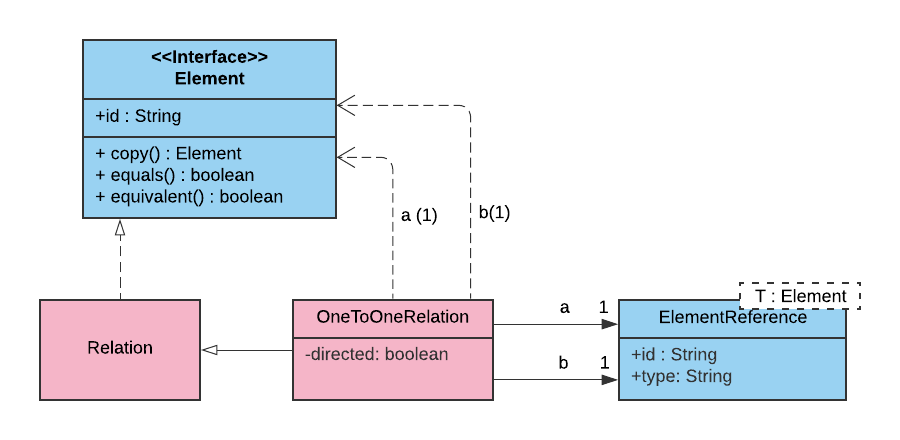
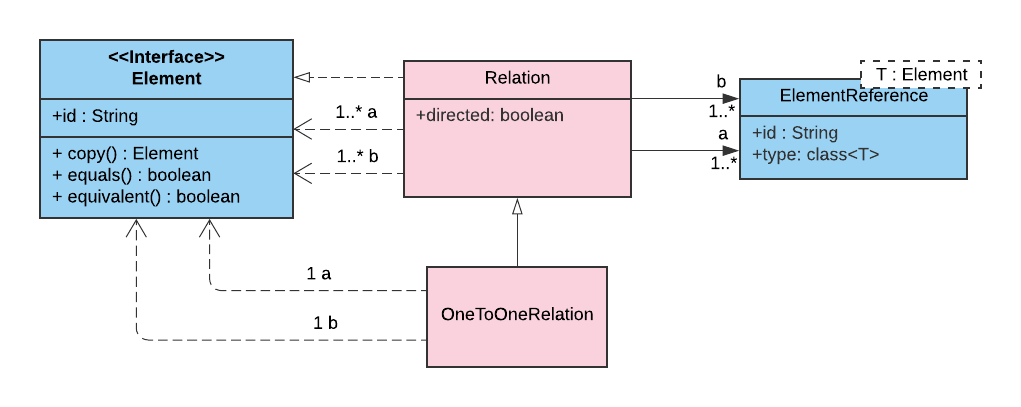
dump

diff --git a/Thesis/chapters/fundamentals.tex b/Thesis/chapters/fundamentals.tex
@@ -1,15 +1,15 @@
 \chapter{Related Work and Fundamentals}
 
-\comment{Intro}
+this chapter lays out a knowledge foundation, required in later sections \comment{(*barf* horribly written)}. First an extensive introduction into the CouchEdit architecture is given, that will be needed later on to understand design decisions. Following that, the syntax of the petri net and statechart modeling languages are introduced, which are used in Chapter \ref{chap:design} to explain concepts of the proposed metamodel. Finally, related work is being explored \comment{(to short)}. 
 
 \section{CouchEdit}
 As noted in section \ref{sec:problem_statement}, the CouchEdit framework is based on the Ideas of Van Tendeloo, et al. \cite{van_tendeloo_concrete_2017}. In their paper, the authors criticize that classic approaches to modeling frontends usually create one monolithic construct, that handles both the graphical model display as well as the corresponding abstract syntax. This creates tight coupling between the two, which causes low flexibility of the UI and high effort, if new features are to be implemented. 
 
 They propose to solve this, by defining two metamodels, one describing the concrete syntax and one the abstract syntax. The concrete syntax metamodel specifies graphic primitives that are needed to compose a given modeling syntax. instances of this metamodel are managed by the frontend and a user can manipulate this concrete syntax directly by adding, deleting or modifying Elements in the UI (if the frontend allows changes). On The other side stands the abstract syntax metamodel, it describes the conceptual representation of a modeling syntax. Instances of this metamodel are managed by the backend. To then connect these two metamodels, a further metamodel can be defined, that specifies transformations to translate concrete model into abstract model and backwards. 
 
-Following this architecture, CouchEdit separates frontend from the abstract syntax model. The frontend at its core is a simple vector drawing application, that implements further functionality for diagrams. The backend is then analyzing these vector graphics and translating it into a corresponding abstract syntax. For this, the backend utilizes a set of independent components, that each are responsible for detecting different aspects of the diagram. Each Component contains its own state, when a component detects changes and updates its state, it also publishes these changes for so that other components interested in these changes, can use them.  
+Following this architecture, CouchEdit separates frontend from the abstract syntax model. The frontend at its core is a simple vector drawing application, that implements further functionality for diagrams. The backend is then analyzing these vector graphics and translating it into a corresponding abstract syntax. For this, the backend utilizes a set of independent components, that each are responsible for detecting different aspects of the diagram. Each Component contains its own state, when a component detects changes and updates its state, it also publishes these changes so that other components interested in these changes, can use them.  
 
-This architecture, has the advantage of being very detangled. this allows for components to be improved, in isolation from the rest of the system, and the clear separation of concerns, makes it easier to understand, which component is responsible for what task. Furthermore, components can be swapped out depending on what syntax transformations are needed for the configured modeling syntax.
+This architecture, has the advantage of being very detangled. this allows for components to be improved in isolation from the rest of the system and the clear separation of concerns makes it easier to understand, which component is responsible for what task. Furthermore, components can be swapped out depending on what syntax transformations are needed for the configured modeling syntax.
 
 
 \subsection{Data Model}
@@ -17,50 +17,37 @@ CouchEdit uses a Hypergraph of Elements and Relations to represent its data. Eac
 
 
 \subsubsection{Elements}
-Elements are the base type of CouchEdits hypergraph. Every type of node in this graph inherits from the Element type. Elements have a probability attribute, that denotes, how probable it is that this Element is the result of a correct interpretation of the given Hypergraph. This probability object can be set to Explicit, which means that, either this Element describes a factual truth or it was set by the User. Furthermore, an Element type can have attributes, that provide further information about this Element.
-
-\comment {
-\begin{itemize}
-  \item id
-\end{itemize}
-}
-
-% \begin{lstlisting}
-%   val s: Int = 0
-% \end{lstlisting}
+Elements are the base type of CouchEdits hypergraph. Every type of node in this graph inherits from the Element type. As all hypergraph instances should be independent from each other, it is not possible to access Elements via their object reference, thus every Element has an unique id, that kann be used to reliably identify an Element across multiple graphs. Elements also have a probability attribute, that denotes how probable it is that this Element is the result of a correct interpretation of the given Hypergraph. This probability object can be set to Explicit, which means that, either this Element describes a factual truth or it was set by the User. Furthermore, an Element subtypes can introduce further attributes, that contain important information for the given type.
 
 \subsubsection{Relations}
-Relations represent Edges of the Hypergraph. They also inherit from the Element type and thus can recursively be connected with relations themselves. Each Relation connects a set of source Elements to a set of target Elements. instead of using their object pointer, elements are save using ElementReferences. These object contain an Elements unique id and its type, which can be used to find Elements in the hypergraph. Figure \ref{fig:relations} shows the implementation of Relations. 
+Relations represent Edges of the Hypergraph. Each Relation connects a set of source Elements to a set of target Elements. They also inherit from the Element type and thus can recursively be connected with relations themselves. The connected vertices are referenced using the ElementReference class. This class holds an Elements unique id as well as its type, which then can be used to find a referenced Element in the hypergraph. Figure \ref{fig:relations} shows the implementation of Relations. 
 
-\begin{figure}
+\begin{figure}[h]
   \centering
-  \includegraphics[width=1\linewidth]{images/"csd - relation"}
+  \includegraphics[width=.8\linewidth]{images/"csd - relation"}
   \caption{Class diagram of Relations}
   \label{fig:relations}
 \end{figure}
 
-The most common type of Relation is the OneToOneRelation, it describes a connection between exactly one source and one target Element. The Relation type describes what the reason is, those Elements are connected. Two elements can have multiple Types of relations between them. Figure \ref{fig:relations_inheritance} shows common relations used in the processing of a graph.
-
-\begin{figure}
-  \centering
-  \includegraphics[width=1\linewidth]{images/"csd - relation-inheritance"}
-  \caption{Class diagram of CouchEdits most common Relation types}
-  \label{fig:relations_inheritance}
-\end{figure}
+Via subtyping of relations, it is possible to have multiple different relations between the same two elements, that all describe different kinds of connections. While Relations can connect sets of source and target vertices, the most common relation sub type is the OneToOneRelation, it describes a connection between exactly one source and one target Element. 
 
 
 \subsubsection{Graphic Objects}
-Graphic objects are the basic Elements, a user interacts with.
+Granularity of graphic elements in a model editor plays an important role. On a basic level, each visual object consists of pixels, \comment{im struggling with this section}
+
+
+GraphicObjects are the building blocks of the concrete syntax, they 
 
 \begin{itemize}
-  \item granularity
+  \item granularity 
   \item complex graphic objects
+  \item attribute bag
 \end{itemize}
-
-\subsubsection{ModelDiffs}
 
 
 \subsection{Processors}
+In CouchEdit the mentioned independent components, are represented as 
+subscribe to element types, publish new diffs, connected to bus, model diffs
 
 \subsubsection{Core Processors}
 \begin{itemize}
@@ -80,7 +67,10 @@ Graphic objects are the basic Elements, a user interacts with.
 \end{itemize}
 
 \section{Modeling Languages}
+
 \comment{\dots}
+
+\subsection{Graphical Language Theory}
 \subsection{Petri Nets Syntax}
 In the following, design considerations are explained using a simple petri net syntax. Figure \ref{fig:petrinets_metamodel} shows the abstract syntax metamodel of the used Petri nets syntax. The Petri nets conceptual representation consists of transitions that have a name, places that also have a token count. each Place can have a variable amount of incoming and outgoing Transitions, while Transitions can have any amount of incoming and outgoing Places. 
 
@@ -95,20 +85,20 @@ The graphic representation of Petri nets is described in table \ref{tab:petri-pr
 
 \begin{table}[ht]
   \centering
-\begin{tabular}[width=.2\linewidth]{| Sc | Sc | Sc | Sc | Sc |}
+\begin{tabular}[width=.1\linewidth]{| Sc | Sc | Sc | Sc | Sc |}
   \hline
   Place & Transition & Token & Label & Connection 
   \\
   \hline
-  \includegraphics[width=.15\linewidth]{images/"petrinet - place"} 
+  \includegraphics[width=.1\linewidth]{images/"petrinet - place"} 
   & 
-  \includegraphics[width=.15\linewidth]{images/"petrinet - transition"} 
+  \includegraphics[width=.1\linewidth]{images/"petrinet - transition"} 
   & 
-  \includegraphics[width=.15\linewidth]{images/"petrinet - token"}
+  \includegraphics[width=.1\linewidth]{images/"petrinet - token"}
   & 
-  \includegraphics[width=.15\linewidth]{images/"petrinet - label"}
+  \includegraphics[width=.1\linewidth]{images/"petrinet - label"}
   & 
-  \includegraphics[width=.15\linewidth]{images/"petrinet - connection"} 
+  \includegraphics[width=.1\linewidth]{images/"petrinet - connection"} 
   \\
   \hline
 \end{tabular}

diff --git a/Thesis/chapters/introduction.tex b/Thesis/chapters/introduction.tex
@@ -36,5 +36,64 @@ The primary purpose of this study was to develop a metamodel for the CouchEdit f
 This extension of the CouchEdit framework is supposed to improve developer accessibility and framework flexibility. While a code generator means that the system still has to be recompiled for every modeling syntax, it still becomes easier to support new modeling syntaxes as the metamodel abstracts away from the actual source code implementation and thus requires less knowledge about the CouchEdit framework.
 
 
+\section{Research Questions}
+\comment{rewrite to fit thesis}
+
+The primary goal of this research will be the development of a metamodel for the CouchEdit framework. This imposes multiple questions which are to be answered in order to design and evaluate the designated metamodel.
+
+\begin{description}
+  \item[RQ1:] Is it possible to define a concise metamodel that covers CouchEdits complete feature set?
+
+        If this is not possible, the following question has to be answered.
+        \begin{description}
+          \item[RQ1.1:] How could the feature set be narrowed down, without impacting the frameworks capabilities too much?
+        \end{description}
+
+  \item[RQ2:] What requirements does the CouchEdit architecture impose onto a metamodel?
+
+        The architectures characteristics and quirks have to be considered when designing the language. For example, the publish and subscribe pattern, could make it easy to introduce nonterminating processing chains, which the metamodel should prevent where possible.
+
+  \item[RQ3:] How applicable is the designed metamodel for defining new modeling syntaxes?
+
+        \begin{description}
+          \item[RQ3.1] Is it possible to express common modeling syntax concepts in a clear and concise way?
+          \item[RQ3.2] Are complex concepts still expressible without causing to much convolution?
+        \end{description}
+\end{description}
+
+
+\section{Methodology}
+\comment{also only pasted right now}
+
+As this research strives to develop a new metamodel suitable for the CouchEdit framework, it will be conducted in accordance to the Design Science Research (DSR) approach. According to V. Vaishnavi et al. a design science research process consists of five steps \cite{Vaishnavi2004}.
+
+\subsection{Problem Awareness}
+The first step of a design science research is the identification of existing problems. As specified in section \ref{sec:problem_statement}, it was identified that the current CouchEdit implementation lacks an user friendly way of adapting it to different modeling syntaxes and that it is unclear how a metamodel for this architecture would look like.
+
+\subsection{Suggestion}
+With a clear definition of the problem, objectives can be proposed which have to be achieved in order to solve this problem. The first objective of this research is to develop a metamodel for the CouchEdit architecture. To be more precise, a metamodel is to be designed, that can be used to specify model syntax definitions which map concrete graphical syntaxes to Abstract syntax models and is applicable to CouchEdit's architecture. The second objective is to implement a prototype that provides proof of concept for the applicability of the design metamodel.
+
+
+\subsection{Development}
+The primary goal of a design science research is the development of artifacts.
+The first artifact to be developed in this research will be a metamodel, that can be used to define new modeling syntaxes for a relaxed conformance editor and is applicable to CouchEdit's architecture. The second artifact that is to be developed, is a prototypical code generator that can translate the developed metamodel into a CouchEdit implementation which will be able to process the defined modeling syntax.
+
+To this end, the first sub step of the development stage will be to do a comprehensive analysis of CouchEdits architecture. In his work L. Nachreiner describes in detail, which modeling features the framework covers and how they are implemented \cite{nachreiner_couchedit_2020}. For each of these features, a sub metamodel has to be designed that can be used to define the given feature (RQ1). The approaches of \cite{minas_specifying_2001} and \cite{fondement_making_2005} provide a DSL implementation from which concepts for potential metamodels could be derived. If for one of the features, a suitable metamodel cannot be found, it would have to be evaluated if the feature could be simplified or even dropped (R1.1). After designing sub metamodels for all features, they then have to be composed together, which results in a first version of an applicable metamodel. 
+
+in the next sub step, the code generator will be implemented, this is an iterative step. first, an implementation will be developed on the basis of the designed metamodel, this should reveal further requirements imposed by CouchEdits architecture (RQ2). The metamodel then has to be adjusted to account for these requirements, which in turn requires changes of the implementation until no further requirements can be deduced. Because of time constraints it will not be possible to implement all of the metamodel's features, instead the prototype will cover a minimal feature set that still suffices to demonstrate the metamodel's applicability for selected modeling syntaxes.
+
+\subsection{Evaluation}
+Now that the desired artifacts are fully developed it has to be evaluated how well they do their designated task. The metamodel as the primary artifact of this research has to be evaluated in terms of its applicability to its designated domain. To this end, the metamodel will be demonstrated on the basis of different modeling syntaxes, this should highlight areas in which the metamodel's design excels, as well as design flaws and limitations (RQ3). If time allows, potential flaws can be addressed by returning back to the development phase and revising the artifacts, otherwise flaws are to be highlighted so that future works can address them.
+
+\subsection{Conclusion}
+The conclusion stage marks the end of a DSR and the results are written up. This works written part will be the resulting bachelor's thesis as well as all source code and documentation.
+
+
+\section{Limitations}
+\comment{\dots}
+\begin{itemize}
+  \item not a complete metamodel designed. common language concepts ignored
+\end{itemize}
+
 \section{Thesis Structure}
-\dots
+\comment{\dots}

diff --git a/Thesis/chapters/design.tex b/Thesis/chapters/design.tex
@@ -1,22 +1,36 @@
 \chapter{Design Concept}
+\label{chap:design}
+The proposed artifact effectively is a form of triple graph grammar, meaning it specifies a source model (concrete syntax), a target model (abstract syntax) and a third translation metamodel. The definition of abstract syntax metamodel has already standardized approaches (e.G. Ecore\footnote{\url{https://www.eclipse.org/modeling/emf/}}) and thus is mostly ignored. Furthermore, the proposed design currently only supports a concrete syntax definition composed of graphic primitives, thus complex graphic structures would also have to be explored in follow up works. This work focuses on the translation metamodel, that connects concrete and abstract syntax and produces one approach to handling this connection.
+
+The primary goal of the proposed design is to reduce complexity of the CouchEdit framework. To this end, multiple strategies are employed, that either abstract away from CouchEdits implementation details, or introduce ways to streamline the translation from concrete to abstract syntax. Most of these strategies introduce performance overhead, but as this work focuses on the design aspect, performance analysis is subject to further research. 
+
+
+
+\section{Syntax Processors}
+The primary concern when defining a modeling language with clear separation between concrete and abstract syntax, is the question on how to connect these two distinct models. In this point, the designed architecture draws inspiration from Fondement and Baar \cite{fondement_making_2005}. The authors proposed idea of connecting abstract und concrete syntax, using DisplayManagers, serves as a basis that can be built upon. This approach consists of two parts, recognition and synchronization. 
+
+The recognition part is concerned with detecting patterns in the concrete syntax that have an abstract syntax representation. For this, fondement and baar proposed the introduction of a further abstraction layer in the form of DisplayClasses, that composes the graphic primitives and attributes, representing a model element, into display classes. But the Author's keep the possible implementation of this abstraction layer open. Furthermore it did not seem necessary to create further abstraction in the CouchEdit architecture \comment{why}. Instead the architecture proposed here, tries a different Approach. For each type of DisplayManager, a set of constraints can be defined on the hypergraph's graphic objects. Whenever a graphic object satisfies all constraints of a given display manager type it is deemed to be a concrete representation of this display manager type and an instances of this display manager class and corresponding model element type are created and connected to the graphic object. 
+
+\begin{figure}
+  \centering
+  \includegraphics[width=.5\linewidth]{images/"visualization - place-recognition"}
+  \caption{PlaceRecognitionProcessor, adding PlaceDM to a GraphicObject that satisfies constraints}
+  \label{fig:place-recognition}
+\end{figure}
 
 
 
 
-
-
-
-\section{Displaymanagers}
-A primary concern that arises when designing a metamodel for CouchEdit, is the question of how to dynamically create abstract syntax elements when a pattern in the concrete syntax is detected that has an abstract representation. For this, the designed architecture draws inspiration from F. Fondement and T. Baar \cite{fondement_making_2005}. As described in section \ref{sec:fondement} the Authors propose to link concrete and abstract syntax with DisplayManagers. This idea can be implemented in CouchEdit.
 \begin{itemize}
-  \item display manager for each abstract syntax element
-  \item display manager syncs abstract syntax to concrete
+  \item recognition
+  \item syncing
 \end{itemize}
 
 
-\section{Abstract Syntax}
 
-\section{Type System}
+
+
+\section{Kind System}
 \begin{itemize}
   \item constraints
 \end{itemize}
@@ -34,9 +48,6 @@ Transformations
   \item can need specialized configuration
 \end{itemize}
 \subsection{Label Processor}
-
-
-\section{Graphic Object Definitions}
 
 
 

diff --git a/Thesis/chapters/related_work.tex b/Thesis/chapters/related_work.tex
@@ -8,23 +8,26 @@
 \label{sec:fondement}
 in their work, Making Metamodels Aware of Concrete Syntax \cite{fondement_making_2005}, F. Fondement and T. Baar argue that, while abstract syntax definitions are standardized, most language specifications keep the concrete syntax informal. To solve this problem, they propose an approach to defining the concrete syntax and how to link it to the abstract representation.
 
-For this, the authors complement every class of the abstract syntax with a corresponding display scheme. This display scheme is compose of two parts, an iconic and a constraining part. The iconic part defines a set of DisplayClasses, these DisplayClasses group Graphical Objects together into visual representation object. On the other hand, the constraining part links these DisplayClasses to an abstract syntax element. This link is realized using DisplayManagers. A DisplayManager serves as connection between exactly one model element of the abstract syntax and one display object and has the task of syncing the abstract to the concrete representation. This architecture is depicted in figure \ref{fig:fondement_dm}.
+For this, the authors complement every class of the abstract syntax with a corresponding display scheme. This display scheme is compose of two parts, an iconic and a constraining part. The iconic part defines a set of DisplayClasses, these DisplayClasses group Graphical Objects together into visual representation object. On the other hand, the constraining part links these DisplayClasses to an abstract syntax element. This link is realized using DisplayManagers. A DisplayManager serves as connection between exactly one model element of the abstract syntax and one display object and has the task of syncing the abstract to the concrete representation. An example of this architecture is depicted in figure \ref{fig:fondement_dm}, for a petri net place element. The graphical primitives, a place is composed of, are mapped to a place DisplayClass, to build a places iconic part. This iconic representation is then attached to a place model element, using a place DisplayManager.
 
 
-\begin{figure}[ht]
+\begin{figure}[H]
   \centering
-  \includegraphics[width=.9\linewidth]{images/"csd - fondement-dm"}
-  \caption{Proposed Architecture \comment{pls}}
+  \includegraphics[width=\linewidth]{images/"csd - fondement-example"}
+  \caption{Example representation of a petri net place element}
   \label{fig:fondement_dm}
 \end{figure}
 
+A DisplayManager has to keep abstract and concrete representation in sync, for this F. Fondement and T. Baar utilize OCL invariants, which are defined on the DisplayerManager. For example, an invariant to sync the name of place display schemes could look as following:
+
+\begin{lstlisting}[language=OCL]
+  context PlaceDM
+  inv: self.me.name = self.vo.name.text
+\end{lstlisting}
+
+\comment{kinda hard cut}
+
+The Authors keep open, how the mapping from graphical primitives to a display object could be implemented. while the metamodel proposed in this thesis does not introduce an extra layer of abstraction in form of these DisplayClasses, it still is inspired heavily by F. Fondement's and T. Baar's work. Especially the constraining part that utilizes DisplayManagers to sync abstract and concrete syntax, served as primary inspiration for the proposed architecture.
 
 
-
-
-\cite{baar_correctly_2008}
-\begin{itemize}
-  \item display class
-  \item display manager
-  \item model element
-\end{itemize}
+\comment{we need some more related work.}

diff --git a/Thesis/ba_hannah_lappe.tex b/Thesis/ba_hannah_lappe.tex
@@ -183,37 +183,42 @@ leqno					% equation numbers to the left
 % Beispiele für Quellcode
 \usepackage{listings}
 
-\lstdefinelanguage{Kotlin}{
-  comment=[l]{//},
-  commentstyle={\color{gray}\ttfamily},
-  emph={delegate, filter, first, firstOrNull, forEach, lazy, map, mapNotNull, println, return@},
-  emphstyle={\color{OrangeRed}},
-  identifierstyle=\color{black},
-  keywords={abstract, actual, as, as?, break, by, class, companion, continue, data, do, dynamic, else, enum, expect, false, final, for, fun, get, if, import, in, interface, internal, is, null, object, override, package, private, public, return, set, super, suspend, this, throw, true, try, typealias, val, var, vararg, when, where, while},
-  keywordstyle={\color{NavyBlue}\bfseries},
-  morecomment=[s]{/*}{*/},
-  morestring=[b]",
-  morestring=[s]{"""*}{*"""},
-  ndkeywords={@Deprecated, @JvmField, @JvmName, @JvmOverloads, @JvmStatic, @JvmSynthetic, Array, Byte, Double, Float, Int, Integer, Iterable, Long, Runnable, Short, String},
-  ndkeywordstyle={\color{BurntOrange}\bfseries},
-  sensitive=true,
-  stringstyle={\color{ForestGreen}\ttfamily},
+% \lstdefinelanguage{Kotlin}{
+%   comment=[l]{//},
+%   commentstyle={\color{gray}\ttfamily},
+%   emph={delegate, filter, first, firstOrNull, forEach, lazy, map, mapNotNull, println, return@},
+%   emphstyle={\color{OrangeRed}},
+%   identifierstyle=\color{black},
+%   keywords={abstract, actual, as, as?, break, by, class, companion, continue, data, do, dynamic, else, enum, expect, false, final, for, fun, get, if, import, in, interface, internal, is, null, object, override, package, private, public, return, set, super, suspend, this, throw, true, try, typealias, val, var, vararg, when, where, while},
+%   keywordstyle={\color{NavyBlue}\bfseries},
+%   morecomment=[s]{/*}{*/},
+%   morestring=[b]",
+%   morestring=[s]{"""*}{*"""},
+%   ndkeywords={@Deprecated, @JvmField, @JvmName, @JvmOverloads, @JvmStatic, @JvmSynthetic, Array, Byte, Double, Float, Int, Integer, Iterable, Long, Runnable, Short, String},
+%   ndkeywordstyle={\color{BurntOrange}\bfseries},
+%   sensitive=true,
+%   stringstyle={\color{ForestGreen}\ttfamily},
+% }
+
+\lstdefinelanguage{OCL}{
+  emph={context, inv},
+  emphstyle={\color{Black}}
 }
 
 
 
-\lstset{language=Kotlin,
-  showstringspaces=false,
-  frame=single,
-  numbers=left,
-  basicstyle=\ttfamily,
-  numberstyle=\tiny
-  captionpos=b,
-  numbers=left,
-  basicstyle=\singlespacing\ttfamily,
-  numberstyle=\smaller\ttfamily,
-  tabsize=4
-}
+% \lstset{
+%   showstringspaces=false,
+%   frame=single,
+%   numbers=left,
+%   basicstyle=\ttfamily,
+%   numberstyle=\tiny
+%   captionpos=b,
+%   numbers=left,
+%   basicstyle=\singlespacing\ttfamily,
+%   numberstyle=\smaller\ttfamily,
+%   tabsize=4
+% }
 
 \makeatletter
 \AtBeginDocument{\@ifpackageloaded{amsmath}{\@mathmargin\z@}{}}%

diff --git a/Thesis/chapters/evaluation.tex b/Thesis/chapters/evaluation.tex
@@ -3,4 +3,6 @@
 
 \begin{itemize}
   \item way more processing -> performance loss
+  \item plugin processor needed for specialized tasks
 \end{itemize}
+
